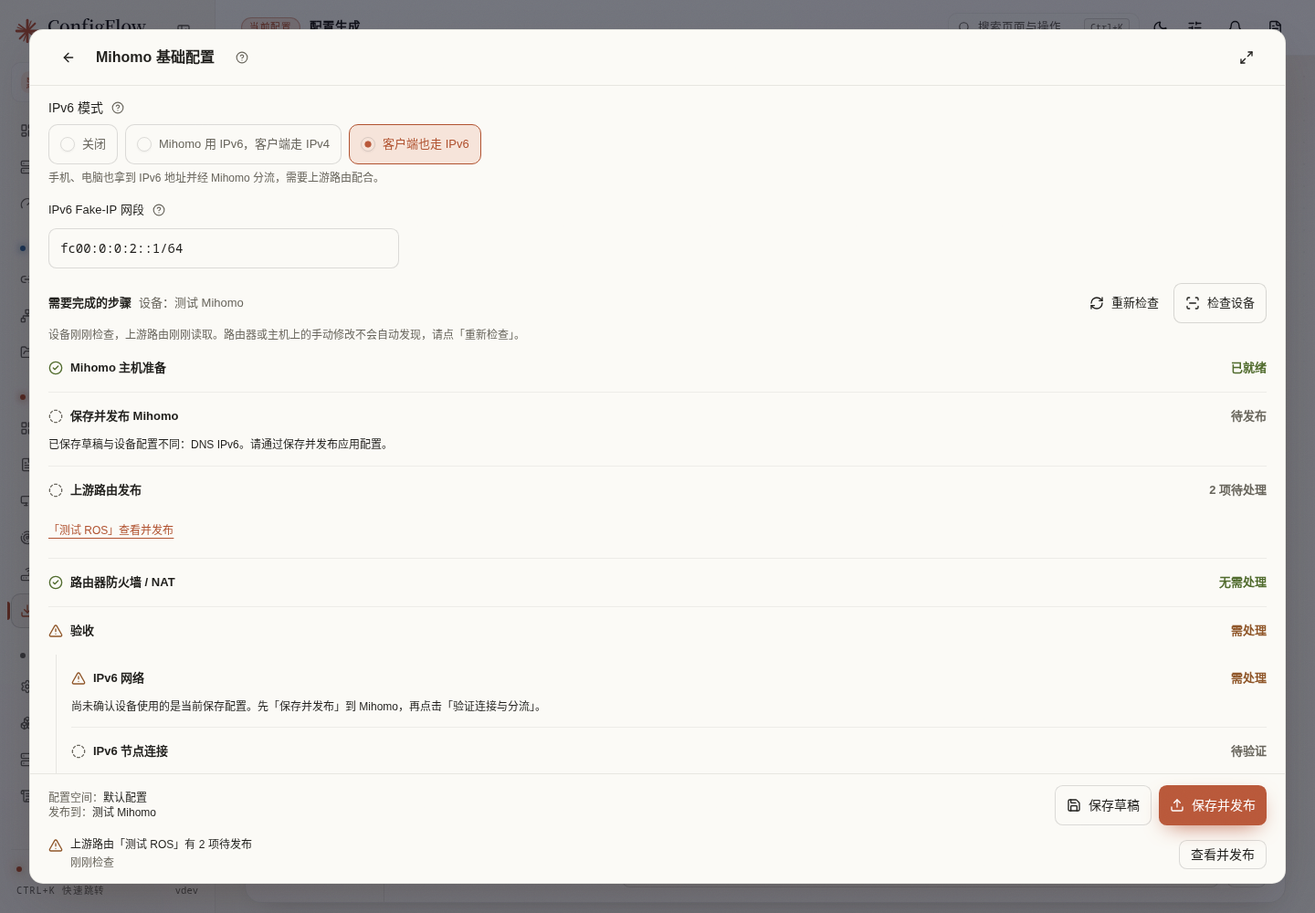
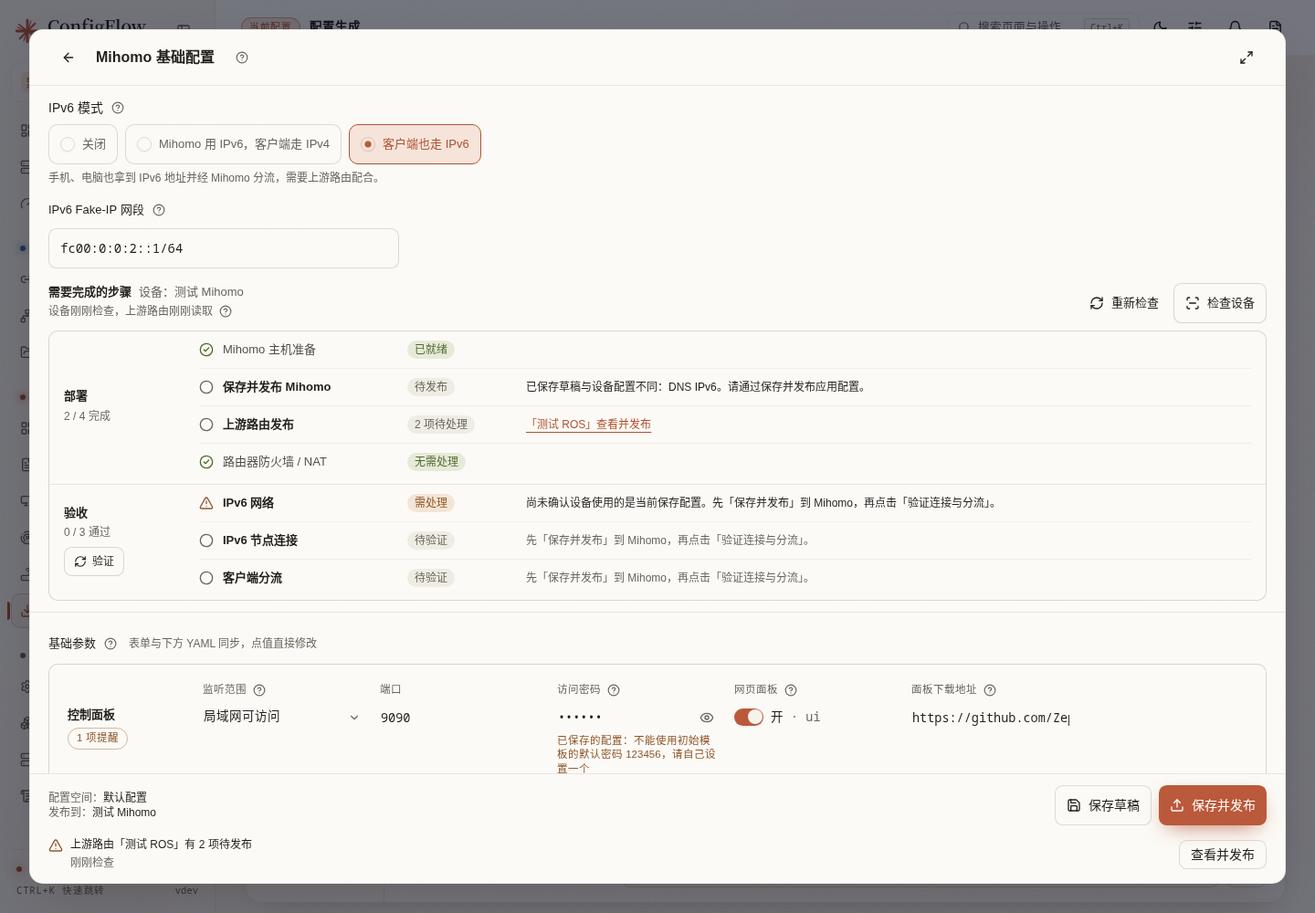
style(mihomo): IPv6 步骤与验收改成和基础参数同风格的清单
- 步骤放进一张清单卡片，分「部署」「验收」两组，组名旁写进度（N / M 完成、N / 3 通过），左侧上下居中
- 每步一行：图标、步骤名、状态小标签、原因，状态紧挨步骤名，原因与步骤名对齐；待办改用实线空心圆，不再像加载
- 验收单独成组，三项结果用同样的清单行；「验证」按钮放在组名下方，不再挂在结果下面
- 检查时间并进标题下方，手动修改的提示收进问号；手机上按钮换行，不挤标题
- 设备检查窗口与发布后验收保持原样；同步 DESIGN.md、文档、截图与浏览器脚本

diff --git a/frontend/src/components/generate/MihomoIPv6Steps.vue b/frontend/src/components/generate/MihomoIPv6Steps.vue
@@ -5,7 +5,9 @@ import { Copy, RefreshCw, ScanLine } from '@lucide/vue'
 import { agentApi, profileApi, routerApi } from '@/api'
 import { Button } from '@/components/ui/button'
 import { Select, SelectContent, SelectItem, SelectTrigger, SelectValue } from '@/components/ui/select'
-import AgentStatusRow from '@/components/agents/AgentStatusRow.vue'
+import FieldHelp from '@/components/common/FieldHelp.vue'
+import MihomoIPv6StepGroup from './MihomoIPv6StepGroup.vue'
+import MihomoIPv6StepRow from './MihomoIPv6StepRow.vue'
 import MihomoIPv6Verification from './MihomoIPv6Verification.vue'
 import UpstreamRouterPending from '@/components/routers/UpstreamRouterPending.vue'
 import { upstreamRouterApi } from '@/api/upstreamRouterPending'
@@ -82,6 +84,13 @@ const steps = computed(() => {
   }
   return stepOrder(props.mode, oxidns.value.length > 0).map(id => all[id]).filter((item): item is IPv6Step => !!item)
 })
+// 「部署」 holds the steps before 验收, which is its own group with the verify button.
+const deploySteps = computed(() => steps.value.filter(item => item.id !== 'verify'))
+const verify = computed(() => steps.value.find(item => item.id === 'verify'))
+const deployProgress = computed(() => `${deploySteps.value.filter(item => item.tone === 'success').length} / ${deploySteps.value.length} 完成`)
+const upstreamLinksShown = computed(() => !props.dirty && (upstream.value?.state === 'pending' || upstream.value?.state === 'unknown'))
+const hasNotice = (item: IPv6Step) => item.issues.length > 0 || !!item.note || !!item.commands?.length || item.id === 'oxidns'
+  || (item.id === 'upstream' && (upstream.value?.state === 'none' || upstreamLinksShown.value))
 // Shown once above the list instead of repeating the same reason on every step.
 const notice = computed(() => {
   if (phase.value === 'loading') return { text: '正在读取设备…', tone: 'muted' }
@@ -100,7 +109,7 @@ const checked = computed(() => {
   const at = readiness.value?.checked_at
   if (!at || props.dirty || phase.value !== 'idle') return ''
   const routers = upstream.value?.checkedAt ? `，上游路由${checkedAgo(upstream.value.checkedAt, '读取')}` : ''
-  return `设备${checkedAgo(at)}${routers}。路由器或主机上的手动修改不会自动发现，请点「重新检查」。`
+  return `设备${checkedAgo(at)}${routers}`
 })
 const recheckFailed = computed(() => {
   const failure = readiness.value?.refresh_error
@@ -297,9 +306,15 @@ onUnmounted(() => { clearInterval(ticker); clearTimeout(publicationTimer); dispo
 </script>
 
 <template>
-  <section class="min-w-0 space-y-1 pt-3" aria-label="IPv6 设置步骤" data-mihomo-ipv6-steps>
+  <section class="@container/steps min-w-0 space-y-2 pt-3" aria-label="IPv6 设置步骤" data-mihomo-ipv6-steps>
     <div class="flex min-w-0 flex-wrap items-center gap-x-3 gap-y-1">
-      <h3 class="m-0 min-w-0 flex-1 text-[13px] font-semibold">需要完成的步骤<span v-if="selected" class="block break-words font-normal text-muted-foreground sm:ml-2 sm:inline">设备：{{ selected.name }}</span></h3>
+      <!-- At least 12rem wide, so on a phone the buttons move to their own line instead of squeezing it. -->
+      <div class="min-w-48 flex-1">
+        <h3 class="m-0 text-[13px] font-semibold">需要完成的步骤<span v-if="selected" class="block break-words font-normal text-muted-foreground sm:ml-2 sm:inline">设备：{{ selected.name }}</span></h3>
+        <p v-if="checked" class="m-0 flex flex-wrap items-center gap-x-0.5 text-xs text-muted-foreground" data-ipv6-steps-checked>
+          {{ checked }}<span class="cf-compact-help"><FieldHelp label="检查时间" text="结果来自上次检查。路由器或主机上的手动修改不会自动发现，改过之后请点「重新检查」。" /></span>
+        </p>
+      </div>
       <div class="flex shrink-0 items-center gap-1">
         <Button type="button" variant="ghost" class="min-h-11 px-3 text-[13px]" :disabled="!open || dirty || disabled || phase !== 'idle'" data-ipv6-steps-recheck @click="refresh">
           <RefreshCw class="size-4" :class="phase === 'checking' && 'animate-spin motion-reduce:animate-none'" aria-hidden="true" />重新检查
@@ -313,41 +328,47 @@ onUnmounted(() => { clearInterval(ticker); clearTimeout(publicationTimer); dispo
     </Select>
     <p v-if="notice" class="m-0 break-words text-xs leading-relaxed" :class="notice.tone === 'warning' ? 'text-warning-accent' : 'text-muted-foreground'" role="status">{{ notice.text }}</p>
     <p v-if="recheckFailed" class="m-0 break-words text-xs leading-relaxed text-warning-accent" role="status" data-ipv6-steps-recheck-failed>{{ recheckFailed }}</p>
-    <p v-if="checked" class="m-0 break-words text-xs leading-relaxed text-muted-foreground" data-ipv6-steps-checked>{{ checked }}</p>
-    <ol class="m-0 min-w-0 list-none divide-y divide-border/70 p-0">
-      <li v-for="item in steps" :key="item.id" class="min-w-0" :data-ipv6-step="item.id">
-        <AgentStatusRow :label="item.label" :status="item.status" :tone="item.tone">
-          <template v-if="item.issues.length || item.note || item.commands?.length" #notice>
-            <p v-for="issue in item.issues" :key="issue" class="m-0 [overflow-wrap:anywhere]" :role="item.tone === 'danger' ? 'alert' : undefined">{{ issue }}</p>
-            <p v-if="item.note" class="m-0 text-muted-foreground [overflow-wrap:anywhere]">{{ item.note }}</p>
-            <div v-for="entry in item.commands || []" :key="entry.command" class="min-w-0 space-y-1.5" data-ipv6-step-command>
-              <div class="flex min-h-8 items-center justify-between gap-2 max-md:min-h-11">
-                <p class="m-0 min-w-0 font-medium">{{ entry.label }}</p>
-                <Button type="button" variant="ghost" size="sm" class="shrink-0 px-2 text-xs max-md:min-h-11" aria-label="复制 IPv6 同口转发放行命令" @click="copyCommand(entry.command)"><Copy class="size-3.5" aria-hidden="true" />复制</Button>
-              </div>
-              <pre class="m-0 min-w-0 overflow-x-auto whitespace-pre rounded-md border border-border bg-muted px-3 py-2 font-mono text-xs leading-relaxed text-foreground">{{ entry.command }}</pre>
+    <div class="min-w-0 overflow-hidden rounded-lg border border-border-strong bg-card" data-ipv6-steps-sheet>
+      <MihomoIPv6StepGroup title="部署" :progress="deployProgress">
+        <ol class="m-0 min-w-0 list-none divide-y divide-border/60 p-0">
+          <li v-for="item in deploySteps" :key="item.id" class="min-w-0" :data-ipv6-step="item.id">
+            <MihomoIPv6StepRow :label="item.label" :status="item.status" :tone="item.tone">
+              <template v-if="hasNotice(item)" #notice>
+                <p v-for="issue in item.issues" :key="issue" class="m-0 [overflow-wrap:anywhere]" :role="item.tone === 'danger' ? 'alert' : undefined">{{ issue }}</p>
+                <p v-if="item.note" class="m-0 text-muted-foreground [overflow-wrap:anywhere]">{{ item.note }}</p>
+                <div v-for="entry in item.commands || []" :key="entry.command" class="min-w-0 space-y-1.5" data-ipv6-step-command>
+                  <div class="flex min-h-8 items-center justify-between gap-2 max-md:min-h-11">
+                    <p class="m-0 min-w-0 font-medium">{{ entry.label }}</p>
+                    <Button type="button" variant="ghost" size="sm" class="shrink-0 px-2 text-xs max-md:min-h-11" aria-label="复制 IPv6 同口转发放行命令" @click="copyCommand(entry.command)"><Copy class="size-3.5" aria-hidden="true" />复制</Button>
+                  </div>
+                  <pre class="m-0 min-w-0 overflow-x-auto whitespace-pre rounded-md border border-border bg-muted px-3 py-2 font-mono text-xs leading-relaxed text-foreground">{{ entry.command }}</pre>
+                </div>
+                <Button v-if="item.id === 'host' && item.issues.length" type="button" variant="outline" size="sm" class="min-h-11 md:min-h-8" :disabled="disabled" @click="emit('check', selectedId)"><ScanLine class="size-4" aria-hidden="true" />检查设备</Button>
+                <RouterLink v-if="item.id === 'upstream' && upstream?.state === 'none'" class="inline-flex min-h-11 items-center text-primary-accent underline underline-offset-4 md:min-h-0" to="/routers">前往上游路由</RouterLink>
+                <div v-if="item.id === 'upstream' && upstreamLinksShown" class="flex min-w-0 flex-wrap gap-x-4" data-ipv6-step-upstream>
+                  <RouterLink v-for="link in upstreamLinks" :key="link.key" class="inline-flex min-h-11 items-center text-primary-accent underline underline-offset-4 md:min-h-0" :to="link.to">{{ link.label }}</RouterLink>
+                  <RouterLink v-if="!upstreamLinks.length" class="inline-flex min-h-11 items-center text-primary-accent underline underline-offset-4 md:min-h-0" to="/routers">前往上游路由查看</RouterLink>
+                </div>
+                <RouterLink v-if="item.id === 'oxidns'" class="inline-flex min-h-11 items-center text-primary-accent underline underline-offset-4 md:min-h-0" to="/agents">到 Agent 页打开 OxiDNS 设置</RouterLink>
+              </template>
+            </MihomoIPv6StepRow>
+            <!-- Mounted but hidden: this row shows only its status; its own lines appear in the
+                 publish bar and the device check, not twice on one screen. -->
+            <div v-if="item.id === 'upstream' && selectedId" class="hidden" data-ipv6-step-upstream-reminder>
+              <UpstreamRouterPending :agent-id="selectedId" :profile-id="profileId" :refresh-key="upstreamKey" compact @status="followUpstream" />
             </div>
-            <Button v-if="item.id === 'host' && item.issues.length" type="button" variant="outline" class="min-h-11" :disabled="disabled" @click="emit('check', selectedId)"><ScanLine class="size-4" aria-hidden="true" />检查设备</Button>
-            <RouterLink v-if="item.id === 'upstream' && upstream?.state === 'none'" class="inline-flex min-h-11 items-center text-primary-accent underline underline-offset-4" to="/routers">前往上游路由</RouterLink>
-            <RouterLink v-if="item.id === 'oxidns'" class="inline-flex min-h-11 items-center text-primary-accent underline underline-offset-4" to="/agents">到 Agent 页打开 OxiDNS 设置</RouterLink>
-          </template>
-        </AgentStatusRow>
-        <template v-if="item.id === 'upstream' && selectedId">
-          <!-- Mounted but hidden: this row shows only its status; its own lines appear in the
-               publish bar and the device check, not twice on one screen. -->
-          <div class="hidden" data-ipv6-step-upstream-reminder>
-            <UpstreamRouterPending :agent-id="selectedId" :profile-id="profileId" :refresh-key="upstreamKey" compact @status="followUpstream" />
-          </div>
-          <div v-if="!dirty && (upstream?.state === 'pending' || upstream?.state === 'unknown')" class="-mt-1 mb-2 flex min-w-0 flex-wrap gap-x-4 text-xs" data-ipv6-step-upstream>
-            <RouterLink v-for="link in upstreamLinks" :key="link.key" class="inline-flex min-h-11 items-center text-primary-accent underline underline-offset-4" :to="link.to">{{ link.label }}</RouterLink>
-            <RouterLink v-if="!upstreamLinks.length" class="inline-flex min-h-11 items-center text-primary-accent underline underline-offset-4" to="/routers">前往上游路由查看</RouterLink>
-          </div>
-        </template>
-        <div v-if="item.id === 'verify' && readiness && !dirty" v-show="item.tone !== 'success'" class="mb-2 ml-2 min-w-0 border-l border-border pl-4 text-xs" data-ipv6-step-verify>
-          <MihomoIPv6Verification :key="`${selectedId}-${readings}`" :open="open" :agent-id="selectedId" :profile-id="profileId"
-            :config-revision="readiness.config_revision" :readiness="readiness" :disabled="!available || phase !== 'idle'" @result="verifier = $event" />
-        </div>
-      </li>
-    </ol>
+          </li>
+        </ol>
+      </MihomoIPv6StepGroup>
+      <template v-if="verify">
+        <MihomoIPv6Verification v-if="readiness && !dirty" :key="`${selectedId}-${readings}`" group="验收" :open="open" :agent-id="selectedId" :profile-id="profileId"
+          :config-revision="readiness.config_revision" :readiness="readiness" :disabled="!available || phase !== 'idle'" data-ipv6-step="verify" data-ipv6-step-verify
+          @result="verifier = $event" />
+        <!-- Nothing to verify before a check of the saved configuration. -->
+        <MihomoIPv6StepGroup v-else title="验收" :progress="verify.status" data-ipv6-step="verify">
+          <p class="m-0 py-3 text-xs text-muted-foreground" data-ipv6-step-verify-waiting>{{ dirty ? '保存草稿并检查设备后，再验证连接与分流。' : '检查设备后，再验证连接与分流。' }}</p>
+        </MihomoIPv6StepGroup>
+      </template>
+    </div>
   </section>
 </template>

diff --git a/frontend/src/components/generate/MihomoIPv6Verification.vue b/frontend/src/components/generate/MihomoIPv6Verification.vue
@@ -6,9 +6,11 @@ import { buildMihomoIPv6Summary } from '@/lib/mihomoIPv6Summary'
 import { Button } from '@/components/ui/button'
 import MihomoIPv6VerificationResult from './MihomoIPv6VerificationResult.vue'
 import MihomoIPv6CheckSummary from './MihomoIPv6CheckSummary.vue'
+import MihomoIPv6StepGroup from './MihomoIPv6StepGroup.vue'
 import type { IPv6Verification, IPv6VerificationResult, MihomoIPv6Readiness } from '@/types/mihomoIPv6'
 
-const props = defineProps<{ open: boolean; agentId: string; profileId: string; configRevision?: number; deploymentId?: string; auto?: boolean; disabled?: boolean; readiness?: MihomoIPv6Readiness }>()
+// group: shown as that group of the IPv6 step list, with its pass count and the verify button beside the rows.
+const props = defineProps<{ open: boolean; agentId: string; profileId: string; configRevision?: number; deploymentId?: string; auto?: boolean; disabled?: boolean; readiness?: MihomoIPv6Readiness; group?: string }>()
 // Lets an embedding view (the IPv6 step list) follow the result shown here.
 const emit = defineEmits<{ result: [value: { verification: IPv6Verification | null; fresh: boolean }] }>()
 const verification = ref<IPv6Verification | null>(null)
@@ -28,6 +30,12 @@ const validRevision = computed(() => Number.isInteger(props.configRevision) && p
 const running = computed(() => verification.value?.status === 'running')
 const canRetryAutomatic = computed(() => verification.value && !running.value
   && buildMihomoIPv6Summary({ verification: verification.value }).some(group => group.tone !== 'success'))
+const shown = computed(() => verification.value && !running.value && !error.value ? verification.value : undefined)
+const progress = computed(() => {
+  if (notApplicable.value || !props.readiness) return ''
+  const groups = buildMihomoIPv6Summary({ readiness: props.readiness, verification: shown.value, preferVerificationSnapshot: freshVerification.value })
+  return `${groups.filter(group => group.tone === 'success').length} / ${groups.length} 通过`
+})
 const current = (session: number) => !disposed && props.open && session === generation
 const failureMessage = (failure: any) => failure?.response?.data?.message || failure?.message || '验收结果暂时无法读取，请重试。'
 
@@ -125,7 +133,23 @@ onUnmounted(() => { disposed = true; generation++; clearTimeout(timer) })
 </script>
 
 <template>
-  <section class="min-w-0 space-y-2" :aria-label="auto ? '发布后验收' : '连接与分流验收'" data-ipv6-verifier>
+  <MihomoIPv6StepGroup v-if="group" :title="group" :progress="progress" data-ipv6-verifier>
+    <template v-if="!notApplicable" #actions>
+      <Button type="button" variant="outline" size="sm" class="min-h-11 border-border-strong px-2.5 text-xs @xl/steps:min-h-8" aria-label="验证连接与分流"
+        :disabled="disabled || pending || running || !validRevision" @click="start"><RefreshCw class="size-3.5" aria-hidden="true" />验证</Button>
+    </template>
+    <div v-if="pending || running || message || error || !validRevision || notApplicable" class="space-y-1 py-2.5 text-xs">
+      <p v-if="pending || running" class="m-0 flex items-center gap-2" role="status"><LoaderCircle class="size-4 shrink-0 animate-spin motion-reduce:animate-none" aria-hidden="true" />{{ running || starting ? '正在验证连接与分流…' : '正在读取验收结果…' }}</p>
+      <p v-if="starting || running" class="m-0 text-muted-foreground">可以离开此窗口，验收会在后台继续；重新打开设备检查可查看结果。</p>
+      <p v-if="message" class="m-0 break-words text-warning-accent" role="status">{{ message }}</p>
+      <p v-if="error" class="m-0 break-words text-destructive-accent" role="alert">{{ error }}</p>
+      <p v-if="!validRevision" class="m-0 text-warning-accent">请重新检查设备，取得当前配置版本后再验证。</p>
+      <p v-if="notApplicable" class="m-0 text-muted-foreground" role="status" data-ipv6-not-applicable>未启用 IPv6，无需验收。</p>
+      <Button v-if="message || (error && running)" type="button" variant="ghost" class="min-h-11" :disabled="pending" @click="error = ''; message = ''; started = Date.now(); read(generation)">重新读取结果</Button>
+    </div>
+    <MihomoIPv6CheckSummary v-if="!notApplicable && readiness" checklist :readiness="readiness" :prefer-verification-snapshot="freshVerification" :verification="shown" data-mihomo-ipv6-verification />
+  </MihomoIPv6StepGroup>
+  <section v-else class="min-w-0 space-y-2" :aria-label="auto ? '发布后验收' : '连接与分流验收'" data-ipv6-verifier>
     <p v-if="pending || running" class="m-0 flex items-center gap-2 text-xs" role="status"><LoaderCircle class="size-4 shrink-0 animate-spin motion-reduce:animate-none" aria-hidden="true" />{{ running || starting ? auto ? '配置已发布，正在验证连接与分流…' : '正在验证连接与分流…' : '正在读取验收结果…' }}</p>
     <p v-if="starting || running" class="m-0 text-xs text-muted-foreground">可以离开此窗口，验收会在后台继续；重新打开设备检查可查看结果。</p>
     <p v-if="message" class="m-0 break-words text-xs text-warning-accent" role="status">{{ message }}</p>
@@ -133,7 +157,7 @@ onUnmounted(() => { disposed = true; generation++; clearTimeout(timer) })
     <p v-if="!validRevision" class="m-0 text-xs text-warning-accent">请重新检查设备，取得当前配置版本后再验证。</p>
     <p v-if="notApplicable" class="m-0 text-xs text-muted-foreground" role="status" data-ipv6-not-applicable>未启用 IPv6，无需验收。</p>
     <div v-else-if="readiness" data-mihomo-ipv6-verification>
-      <MihomoIPv6CheckSummary :readiness="readiness" :prefer-verification-snapshot="freshVerification" :verification="verification && !running && !error ? verification : undefined" />
+      <MihomoIPv6CheckSummary :readiness="readiness" :prefer-verification-snapshot="freshVerification" :verification="shown" />
     </div>
     <MihomoIPv6VerificationResult v-else-if="verification && verification.status !== 'running'" :verification="verification" :compact="auto" />
     <div class="flex flex-wrap gap-2">

diff --git a/frontend/tests/mihomo-ipv6-steps.test.ts b/frontend/tests/mihomo-ipv6-steps.test.ts
@@ -4,6 +4,7 @@ import { defineComponent, h } from 'vue'
 import { RouterLink } from 'vue-router'
 import { agentApi, profileApi, routerApi } from '@/api'
 import MihomoIPv6Steps from '@/components/generate/MihomoIPv6Steps.vue'
+import FieldHelp from '@/components/common/FieldHelp.vue'
 import MihomoIPv6Verification from '@/components/generate/MihomoIPv6Verification.vue'
 import UpstreamRouterPending from '@/components/routers/UpstreamRouterPending.vue'
 import { upstreamRouterApi } from '@/api/upstreamRouterPending'
@@ -178,7 +179,7 @@ const wrappers: VueWrapper[] = []
 async function mount(props = {}, slots = false) {
   const wrapper = shallowMount(MihomoIPv6Steps, {
     props: { open: true, profileId: 'bound', preferredAgentId: 'gw', mode: 'clients', dirty: false, ...props },
-    global: { renderStubDefaultSlot: slots, stubs: { Button: false, Primitive: false, AgentStatusRow: RowStub } },
+    global: { renderStubDefaultSlot: slots, stubs: { Button: false, Primitive: false, MihomoIPv6StepRow: RowStub, MihomoIPv6StepGroup: false } },
   })
   wrappers.push(wrapper)
   await flushPromises()
@@ -300,10 +301,12 @@ describe('Mihomo IPv6 step list', () => {
     vi.mocked(agentApi.ipv6Readiness).mockResolvedValue(response({ ...hinted(), cached: true, checked_at: new Date(Date.now() - 12 * 60000).toISOString() }))
     const wrapper = await mount()
     const line = () => wrapper.get('[data-ipv6-steps-checked]').text()
-    expect(line()).toBe('设备检查于 12 分钟前。路由器或主机上的手动修改不会自动发现，请点「重新检查」。')
+    expect(line()).toBe('设备检查于 12 分钟前')
+    // How to catch manual edits sits in the help beside the time.
+    expect(wrapper.get('[data-ipv6-steps-checked]').getComponent(FieldHelp).props('text')).toContain('手动修改不会自动发现')
     wrapper.getComponent(UpstreamRouterPending).vm.$emit('status', { state: 'synced', pending: 0, checkedAt: new Date(Date.now() - 3 * 60000).toISOString() })
     await flushPromises()
-    expect(line()).toContain('设备检查于 12 分钟前，上游路由读取于 3 分钟前。')
+    expect(line()).toBe('设备检查于 12 分钟前，上游路由读取于 3 分钟前')
     expect(wrapper.get('[data-ipv6-steps-recheck]').text()).toBe('重新检查')
     await wrapper.setProps({ dirty: true })
     expect(wrapper.find('[data-ipv6-steps-checked]').exists()).toBe(false)
@@ -326,7 +329,7 @@ describe('Mihomo IPv6 step list', () => {
     ])))
     const wrapper = shallowMount(MihomoIPv6Steps, {
       props: { open: true, profileId: 'bound', preferredAgentId: 'gw', mode: 'clients', dirty: false },
-      global: { renderStubDefaultSlot: true, stubs: { Button: false, Primitive: false, AgentStatusRow: RowStub, UpstreamRouterPending: false } },
+      global: { renderStubDefaultSlot: true, stubs: { Button: false, Primitive: false, MihomoIPv6StepRow: RowStub, MihomoIPv6StepGroup: false, UpstreamRouterPending: false } },
     })
     wrappers.push(wrapper)
     await flushPromises()
@@ -341,21 +344,16 @@ describe('Mihomo IPv6 step list', () => {
     expect(links[0].props('to')).toEqual({ path: '/routers', query: { router: 'ros', profile: 'bound', preview: '1' } })
   })
 
-  it('collapses acceptance to one line once the embedded verification passes', async () => {
+  it('shows acceptance as its own group, with the verify button beside the checks, after a check of the saved configuration', async () => {
     const wrapper = await mount()
     const verifier = wrapper.getComponent(MihomoIPv6Verification)
-    expect(verifier.props()).toMatchObject({ open: true, agentId: 'gw', profileId: 'bound', configRevision: 7 })
-    verifier.vm.$emit('result', { verification: null, fresh: false })
-    await flushPromises()
-    expect(status(wrapper, 'verify')).toBe('待验证')
-    expect((wrapper.get('[data-ipv6-step-verify]').element as HTMLElement).style.display).not.toBe('none')
-    verifier.vm.$emit('result', { verification: { ...passedVerification, status: 'running' }, fresh: true })
-    await flushPromises()
-    expect(status(wrapper, 'verify')).toBe('验证中')
-    verifier.vm.$emit('result', { verification: passedVerification, fresh: true })
-    await flushPromises()
-    expect(status(wrapper, 'verify')).toBe('已通过')
-    expect((wrapper.get('[data-ipv6-step-verify]').element as HTMLElement).style.display).toBe('none')
+    expect(verifier.props()).toMatchObject({ open: true, agentId: 'gw', profileId: 'bound', configRevision: 7, group: '验收' })
+    expect(verifier.attributes('data-ipv6-step')).toBe('verify')
+    // The deploy group counts the steps before acceptance.
+    expect(wrapper.get('[data-ipv6-group-progress]').text()).toMatch(/^\d \/ 5 完成$/)
+    await wrapper.setProps({ dirty: true })
+    expect(wrapper.findComponent(MihomoIPv6Verification).exists()).toBe(false)
+    expect(row(wrapper, 'verify').text()).toContain('保存草稿并检查设备后，再验证连接与分流。')
   })
 
   it('reads only saved configurations: waits while dirty and checks again after saving', async () => {
@@ -464,7 +462,8 @@ describe('Mihomo IPv6 step list', () => {
     vi.mocked(agentApi.ipv6Readiness).mockRejectedValue({ response: { data: { message: '无法连接 Agent 进行 IPv6 检查' } } })
     const wrapper = await mount()
     expect(wrapper.text()).toContain('无法连接 Agent 进行 IPv6 检查')
-    for (const id of ['host', 'publish', 'firewall', 'verify']) expect(status(wrapper, id)).toBe('待检查')
+    for (const id of ['host', 'publish', 'firewall']) expect(status(wrapper, id)).toBe('待检查')
+    expect(row(wrapper, 'verify').get('[data-ipv6-group-progress]').text()).toBe('待检查')
     expect(routerApi.list).not.toHaveBeenCalled()
   })
 })

diff --git a/frontend/src/components/generate/MihomoIPv6StepRow.vue b/frontend/src/components/generate/MihomoIPv6StepRow.vue
@@ -1,0 +1,33 @@
+<script setup lang="ts">
+import { computed } from 'vue'
+import { Circle, CircleCheck, CircleX, Loader2, TriangleAlert } from '@lucide/vue'
+import type { IPv6StepTone } from '@/lib/mihomoIPv6Steps'
+
+/**
+ * One line of the IPv6 checklist: icon, name and a status pill side by side, the
+ * reason in the next column (under the name on a narrow window). Columns are fixed
+ * so the rows of a group line up; sizes follow the `@container/steps` around them.
+ */
+const props = defineProps<{ label: string; status: string; tone: IPv6StepTone }>()
+const look = computed(() => ({
+  success: { icon: CircleCheck, iconClass: 'text-success-accent', pill: 'bg-success-soft text-success-accent' },
+  warning: { icon: TriangleAlert, iconClass: 'text-warning-accent', pill: 'bg-warning-soft text-warning-accent' },
+  danger: { icon: CircleX, iconClass: 'text-destructive-accent', pill: 'bg-destructive-soft text-destructive-accent' },
+  progress: { icon: Loader2, iconClass: 'text-primary-accent animate-spin motion-reduce:animate-none', pill: 'bg-primary-soft text-primary-accent' },
+  neutral: { icon: Circle, iconClass: 'text-muted-foreground', pill: 'bg-muted text-muted-foreground' },
+})[props.tone])
+</script>
+
+<template>
+  <section class="grid min-w-0 grid-cols-[1rem_minmax(0,1fr)_auto] items-start gap-x-2.5 gap-y-1 py-2.5 @3xl/steps:grid-cols-[1rem_minmax(0,12rem)_7.5rem_minmax(0,1fr)]"
+    :aria-label="label" :data-tone="tone">
+    <component :is="look.icon" class="mt-0.5 size-4 shrink-0" :class="look.iconClass" aria-hidden="true" />
+    <span class="min-w-0 text-[13px] leading-5 [overflow-wrap:anywhere]" :class="tone === 'success' ? 'text-foreground/80' : 'font-semibold text-foreground'">{{ label }}</span>
+    <span class="justify-self-end whitespace-nowrap rounded-full px-2 py-0.5 text-xs leading-4 @3xl/steps:justify-self-start" :class="look.pill"
+      aria-live="polite" aria-atomic="true" :aria-label="`${label}：${status}`" data-status>{{ status }}</span>
+    <div v-if="$slots.notice" class="col-span-2 col-start-2 min-w-0 space-y-1.5 text-xs leading-5 text-foreground [overflow-wrap:anywhere] @3xl/steps:col-span-1 @3xl/steps:col-start-4 @3xl/steps:row-start-1"
+      aria-live="polite" data-status-notice>
+      <slot name="notice" />
+    </div>
+  </section>
+</template>

diff --git a/frontend/src/components/generate/MihomoIPv6CheckSummary.vue b/frontend/src/components/generate/MihomoIPv6CheckSummary.vue
@@ -1,22 +1,24 @@
 <script setup lang="ts">
 import { computed } from 'vue'
 import AgentStatusRow from '@/components/agents/AgentStatusRow.vue'
+import MihomoIPv6StepRow from './MihomoIPv6StepRow.vue'
 import { buildMihomoIPv6Summary } from '@/lib/mihomoIPv6Summary'
 import type { IPv6Verification, MihomoIPv6Readiness } from '@/types/mihomoIPv6'
 
-const props = defineProps<{ readiness?: MihomoIPv6Readiness; verification?: IPv6Verification; preferVerificationSnapshot?: boolean }>()
+// checklist: rows of the IPv6 step list (status pill beside the name) instead of status rows.
+const props = defineProps<{ readiness?: MihomoIPv6Readiness; verification?: IPv6Verification; preferVerificationSnapshot?: boolean; checklist?: boolean }>()
 const groups = computed(() => buildMihomoIPv6Summary({ readiness: props.readiness, verification: props.verification, preferVerificationSnapshot: props.preferVerificationSnapshot }))
 </script>
 
 <template>
-  <div class="min-w-0 divide-y divide-border/70" data-ipv6-check-summary>
+  <div class="min-w-0 divide-y" :class="checklist ? 'divide-border/60' : 'divide-border/70'" data-ipv6-check-summary>
     <div v-for="group in groups" :key="group.id" class="min-w-0" :data-ipv6-check-group="group.id">
-      <AgentStatusRow :label="group.label" :status="group.status" :tone="group.tone">
+      <component :is="checklist ? MihomoIPv6StepRow : AgentStatusRow" :label="group.label" :status="group.status" :tone="group.tone">
         <template v-if="group.issues.length || (group.note && group.tone !== 'success')" #notice>
           <p v-for="issue in group.issues" :key="issue" class="m-0 [overflow-wrap:anywhere]" :role="group.tone === 'danger' ? 'alert' : undefined">{{ issue }}</p>
           <p v-if="!group.issues.length && group.note" class="m-0 text-muted-foreground [overflow-wrap:anywhere]">{{ group.note }}</p>
         </template>
-      </AgentStatusRow>
+      </component>
     </div>
   </div>
 </template>

diff --git a/frontend/tests/mihomo-ipv6-verifier.test.ts b/frontend/tests/mihomo-ipv6-verifier.test.ts
@@ -27,6 +27,22 @@ beforeEach(() => {
 afterEach(() => { wrappers.splice(0).forEach(wrapper => wrapper.unmount()); vi.restoreAllMocks(); vi.useRealTimers() })
 
 describe('Mihomo verification lifecycle', () => {
+  it('as a group of the step list, puts the pass count and the verify button beside checklist rows', async () => {
+    const readiness = { config_revision: 7, checks: [], routers: [], connectivity: { status: 'not_checked', message: '' } }
+    const wrapper = shallowMount(MihomoIPv6Verification, { props: { open: true, agentId: 'gw', profileId: 'bound', configRevision: 7, readiness, group: '验收' },
+      global: { stubs: { Button: false, Primitive: false, MihomoIPv6StepGroup: false } } })
+    wrappers.push(wrapper)
+    await flushPromises()
+    expect(wrapper.get('h4').text()).toBe('验收')
+    expect(wrapper.get('[data-ipv6-group-progress]').text()).toMatch(/^0 \/ \d 通过$/)
+    expect(wrapper.getComponent(MihomoIPv6CheckSummary).props('checklist')).toBe(true)
+    const button = wrapper.get('button[aria-label="验证连接与分流"]')
+    expect(button.text()).toBe('验证')
+    await button.trigger('click')
+    await flushPromises()
+    expect(agentApi.verifyIPv6).toHaveBeenCalledWith('gw', expect.objectContaining({ profile_id: 'bound', expected_config_revision: 7 }))
+  })
+
   it('reports only settled results to an embedding step list', async () => {
     const wrapper = await render()
     expect(wrapper.emitted('result')).toEqual([[{ verification: null, fresh: false }]])

diff --git a/frontend/src/components/generate/MihomoIPv6StepGroup.vue b/frontend/src/components/generate/MihomoIPv6StepGroup.vue
@@ -1,0 +1,19 @@
+<script setup lang="ts">
+/**
+ * A group of the IPv6 checklist, laid out like the base settings sheet: the name,
+ * its progress and the group's own action centred on the left, the rows on the
+ * right; on a narrow window they sit in one line above the rows.
+ */
+defineProps<{ title: string; progress?: string }>()
+</script>
+
+<template>
+  <section class="grid min-w-0 gap-x-3 border-t border-border px-3 pb-1 first:border-t-0 @xl/steps:grid-cols-[8.5rem_minmax(0,1fr)] @xl/steps:px-4" :aria-label="title">
+    <div class="flex min-w-0 flex-wrap items-center gap-x-2 gap-y-1 pt-2.5 @xl/steps:flex-col @xl/steps:items-start @xl/steps:self-center @xl/steps:py-2.5">
+      <h4 class="m-0 text-[13px] font-semibold">{{ title }}</h4>
+      <span v-if="progress" class="text-xs text-muted-foreground" data-ipv6-group-progress>{{ progress }}</span>
+      <div v-if="$slots.actions" class="ml-auto @xl/steps:ml-0 @xl/steps:mt-1"><slot name="actions" /></div>
+    </div>
+    <div class="min-w-0 divide-y divide-border/60"><slot /></div>
+  </section>
+</template>
